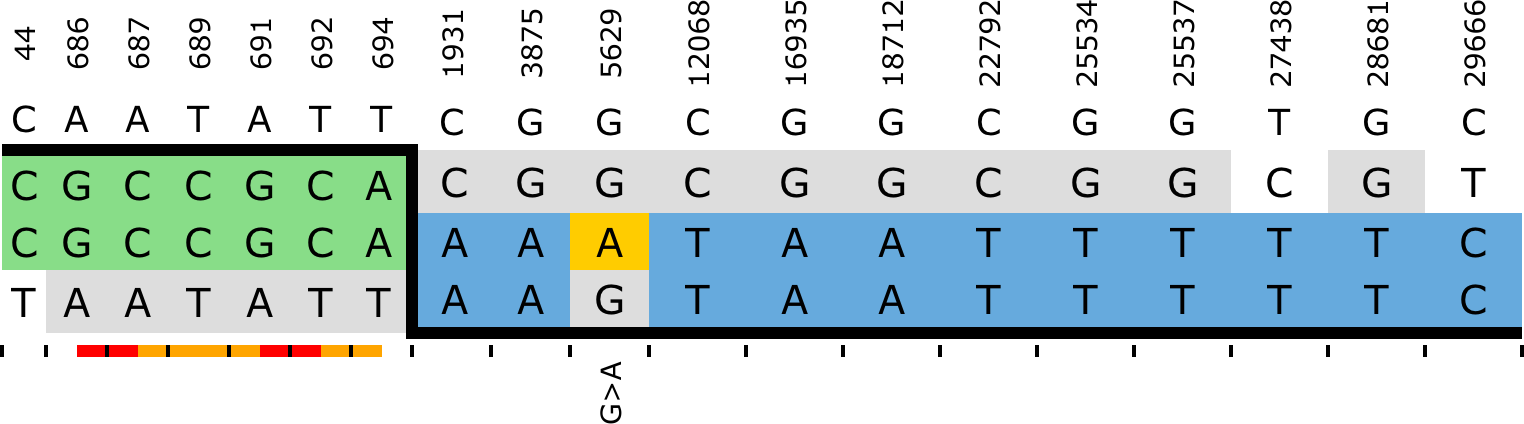
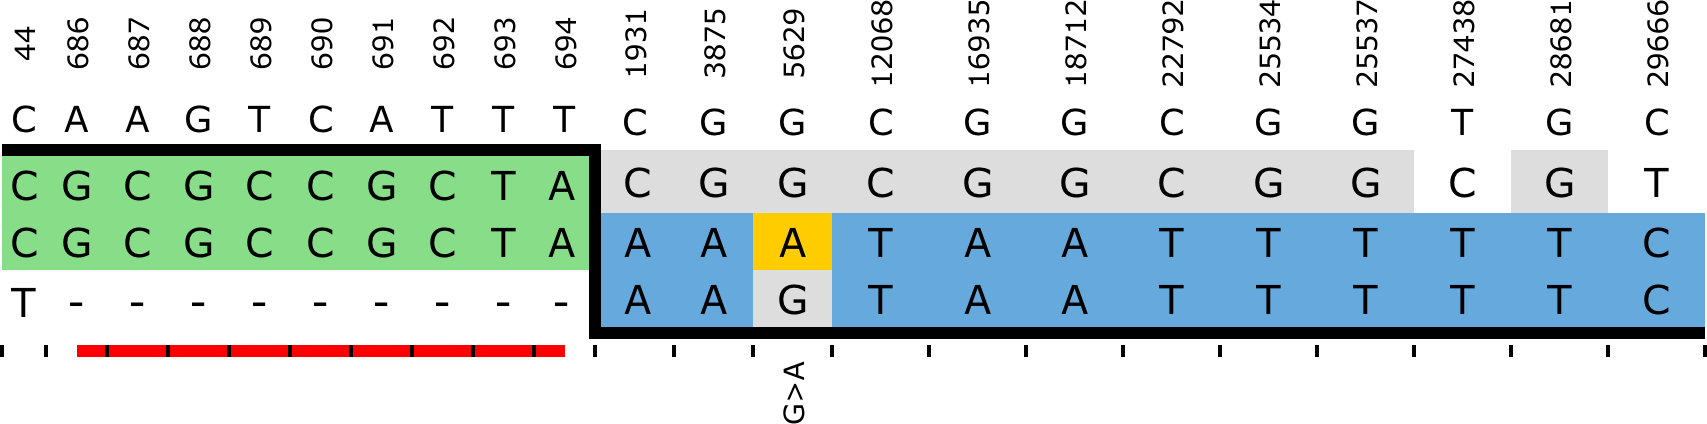
Update copying patterns to new ARG

diff --git a/src/save_copying_patterns.py b/src/save_copying_patterns.py
@@ -13,7 +13,7 @@ data_dir = Path(__file__).resolve().parent.parent / "data"
 png_dir = Path(__file__).resolve().parent.parent / "figures/static"
 
 
-ts = tszip.load(data_dir / "sc2ts_viridian_v1.1.trees.tsz")
+ts = tszip.load(data_dir / "sc2ts_viridian_v1.2.trees.tsz")
 
 def pangoX_RE_node_labels(exclude_dups=True):
     """
